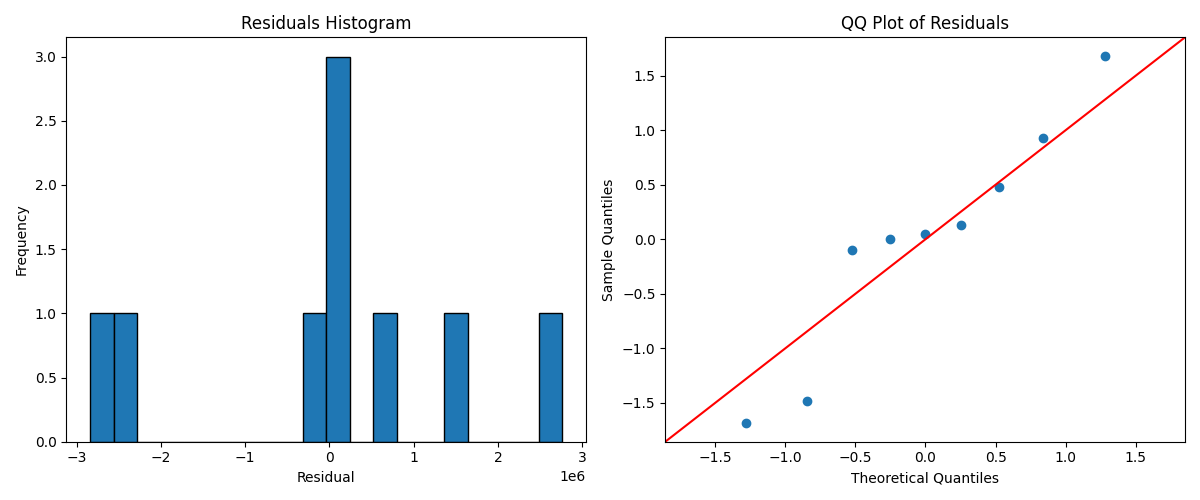
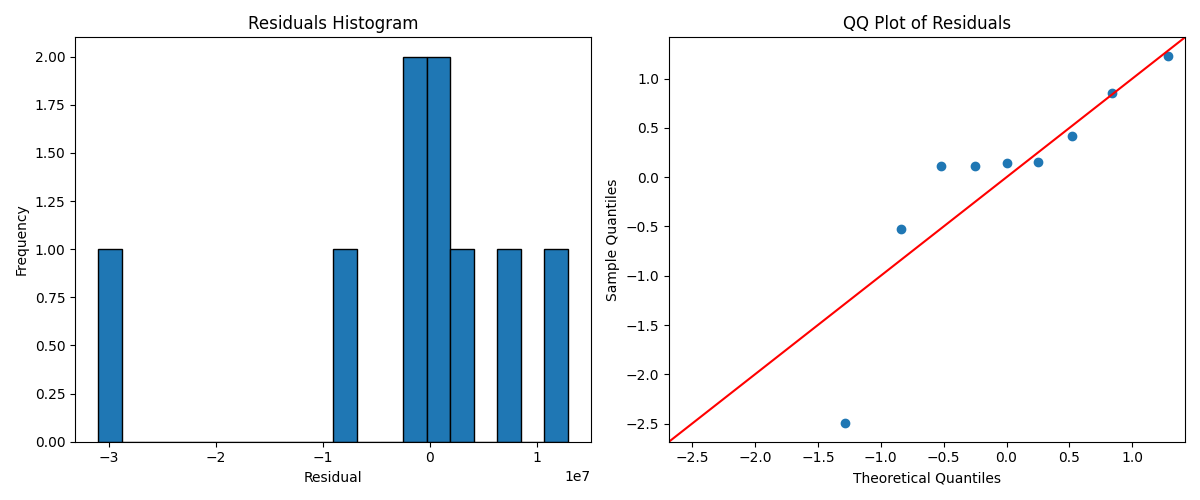
add logger files to track for each company

diff --git a/groundwork/important_metrics_analyzer.py b/groundwork/important_metrics_analyzer.py
@@ -1,3 +1,4 @@
+import logging
 from sklearn.linear_model import LassoCV
 import pandas as pd
 import numpy as np
@@ -6,7 +7,7 @@ from sklearn.preprocessing import StandardScaler
 from statsmodels.stats.outliers_influence import variance_inflation_factor
 import matplotlib.pyplot as plt
 
-def select_features(X: pd.DataFrame, y: pd.Series, cv: int = 5, random_state: int = 0) -> list:
+def select_features(X: pd.DataFrame, y: pd.Series, cv: int = 5, random_state: int = 0, logger:logging.Logger = None) -> list:
     """
     Use LassoCV to select features. Returns a list of predictors with non-zero coefficients.
     
@@ -22,53 +23,87 @@ def select_features(X: pd.DataFrame, y: pd.Series, cv: int = 5, random_state: in
     lasso = LassoCV(cv=cv, random_state=random_state).fit(X, y)
     coef = lasso.coef_
     selected_features = X.columns[coef != 0].tolist()
-    print("LASSO selected features:", selected_features)
+    logger.info(f"LASSO selected features: {selected_features}")
     return selected_features
 
-def fit_mle_model(df: pd.DataFrame, response: str, predictors: list):
+
+def fit_mle_model(df: pd.DataFrame, response: str, predictors: list, logger=None):
     """
     Fit a GLM model using Maximum Likelihood Estimation.
-    
+
     Parameters:
       df         : Cleaned DataFrame containing both the response and predictor variables.
       response   : The dependent variable (e.g., 'Emissions'). Must be strictly positive.
       predictors : List of predictor column names.
-      
+      logger     : Optional logger object for logging messages.
+
     Returns:
-      results    : The fitted GLM model results.
-      predictors : The list of predictor names used.
-      scaler     : The StandardScaler fitted to the predictors.
+      results         : The fitted GLM model results.
+      final_features  : The final list of predictor names used.
+      scaler          : The StandardScaler fitted to the predictors.
     """
+
+    # If no logger is provided, use a module-level logger.
+    if logger is None:
+        import logging
+        logger = logging.getLogger(__name__)
+
     # Replace infinite values with NaN and drop rows with missing data.
     model_df = df[[response] + predictors].replace([np.inf, -np.inf], np.nan).dropna()
-    
+
     # Ensure the response is strictly positive.
     model_df = model_df[model_df[response] > 0]
     if model_df.empty:
         raise ValueError("No valid data left for modeling after filtering out non-positive or missing values.")
-        
-    print(f"Modeling on {len(model_df)} rows after filtering missing, infinite, and non-positive responses.")
-    
+
+    logger.info("Modeling on %d rows after filtering missing, infinite, and non-positive responses.", len(model_df))
+
     # Standardize predictors.
     scaler = StandardScaler()
     X_scaled = scaler.fit_transform(model_df[predictors])
+    # Create a DataFrame with standardized predictors.
     X = pd.DataFrame(X_scaled, columns=predictors, index=model_df.index)
+    # Add constant for GLM.
     X = sm.add_constant(X)
     y = model_df[response]
-    
+
     # Optionally perform automated feature selection with LASSO.
-    selected = select_features(X.drop("const", axis=1), y)
-    # Add the constant back.
-    X_selected = sm.add_constant(X[selected])
-    
+    selected = select_features(X.drop("const", axis=1), y, logger=logger)
+
+    # Now, remove predictors with high VIF.
+    # Start with the predictors selected by LASSO.
+    final_features = selected.copy()
+    vif_threshold = 10
+    while True:
+        # Construct design matrix with constant for the current features.
+        X_current = sm.add_constant(X[final_features])
+        # Calculate VIF for each predictor (excluding the constant).
+        vif_data = pd.DataFrame({
+            'Variable': X_current.columns,
+            'VIF': [variance_inflation_factor(X_current.values, i) for i in range(X_current.shape[1])]
+        })
+        vif_data = vif_data[vif_data["Variable"] != "const"]
+        max_vif = vif_data["VIF"].max()
+        if max_vif < vif_threshold:
+            break
+        else:
+            # Identify the predictor with the highest VIF.
+            worst_predictor = vif_data.loc[vif_data["VIF"].idxmax(), "Variable"]
+            logger.info("Removing predictor '%s' due to high VIF: %.2f", worst_predictor, max_vif)
+            final_features.remove(worst_predictor)
+
+    logger.info("Final predictors after VIF filtering: %s", final_features)
+
+    # Construct final design matrix.
+    X_selected = sm.add_constant(X[final_features])
     # Fit a GLM with Gamma family and Log link.
     model = sm.GLM(y, X_selected, family=sm.families.Gamma(link=sm.families.links.Log()))
     results = model.fit()
-    
-    print("Model fitted. Summary:")
-    print(results.summary())
-    
-    return results, selected, scaler
+
+    logger.info("Model fitted. Summary:\n%s", results.summary())
+
+    return results, final_features, scaler
+
 
 def calculate_vif(df: pd.DataFrame, predictors: list):
     """
@@ -83,7 +118,7 @@ def calculate_vif(df: pd.DataFrame, predictors: list):
     })
     return vif_data
 
-def extract_importance_weights(results, predictors: list):
+def extract_importance_weights(results, predictors: list, logger:logging.Logger = None ):
     """
     Convert standardized coefficients (excluding the intercept) to weights out of 100.
     
@@ -98,12 +133,12 @@ def extract_importance_weights(results, predictors: list):
     weights = (importance / total) * 100
     weight_dict = dict(zip(predictors, weights))
     
-    print("\nVariable Importance Weights (out of 100):")
+    logger.info("\nVariable Importance Weights (out of 100):")
     for var, weight in weight_dict.items():
-        print(f"  {var}: {weight:.2f}")
+        logger.info(f"  {var}: {weight:.2f}")
     return weight_dict
 
-def check_residuals(results, save_path=None):
+def check_residuals(results, save_path=None, logger:logging.Logger = None):
     """
     Plot residual diagnostics to check model assumptions.
     Generates:
@@ -111,6 +146,7 @@ def check_residuals(results, save_path=None):
       - QQ plot for normality of residuals.
       
     Parameters:
+      logger:
       results: The fitted GLM results.
       save_path: Optional; if provided, the figure will be saved to this path.
     """
@@ -132,7 +168,7 @@ def check_residuals(results, save_path=None):
     plt.tight_layout()
     if save_path:
         plt.savefig(save_path)
-        print(f"Figure saved to {save_path}")
+        logger.info(f"Figure saved to {save_path}")
 
 # Example usage for testing the modeling functions:
 if __name__ == "__main__":

diff --git a/main.py b/main.py
@@ -1,4 +1,3 @@
-# main.py
 import os
 from groundwork.data_import import load_all_csvs
 from groundwork.data_cleaning import (
@@ -12,17 +11,17 @@ from groundwork.important_metrics_analyzer import (
     extract_importance_weights,
     check_residuals
 )
-from utils.results_saver import save_model_results  # <-- Import our new module
-from collections import Counter
+from utils.results_saver import save_model_results, setup_company_logger  # Updated import
 
 def main():
+    # Top-level logging for overall progress can go to the console.
     print("\n========== LOADING CSV FILES ==========")
     data_frames = load_all_csvs()
 
     print("\n========== LOADED DATAFRAMES ==========")
     for key in data_frames:
         print(f"✔ Loaded: {key} ({len(data_frames[key])} rows)")
-   
+
     print("\n========== CLEANING & PIVOTING DATAFRAMES ==========")
     cleaned_data_long = {}
     for key, df in data_frames.items():
@@ -39,55 +38,58 @@ def main():
 
     companies = combined_long["Company"].unique()
     print("\nFound companies:", companies)
-    
+
     for comp in companies:
-        print(f"\n========== PROCESSING COMPANY: {comp} ==========")
+        # Set up a logger for this company.
+        logger = setup_company_logger(comp)
+        logger.info("========== PROCESSING COMPANY: %s ==========", comp)
+
         comp_data = combined_long[combined_long["Company"] == comp]
         df_wide = pivot_combined_data(comp_data, index_cols=["Company", "Year"])
-        print(f"Wide-format data for {comp} has {df_wide.shape[0]} rows and {df_wide.shape[1]} columns.")
+        logger.info("Wide-format data for %s has %d rows and %d columns.", comp, df_wide.shape[0], df_wide.shape[1])
 
-        aspect_counts = Counter([col.split('_')[0] for col in df_wide.columns if col not in ["Company", "Year"]])
-        print("Metric counts by aspect:")
-        for aspect, count in aspect_counts.items():
-            print(f"  {aspect}: {count} metrics")
-        print()
-        
+        # List and log available columns (excluding 'Company' and 'Year').
+        columns = [col for col in df_wide.columns if col not in ["Company", "Year"]]
+        logger.info("Columns for company %s: %s", comp, columns)
+
         df_wide.interpolate(method='linear', limit_direction='both', inplace=True)
 
         response_variable = f"{comp}_SASB_Metrics_GHG Emissions"  # Adjust if needed.
         if response_variable not in df_wide.columns:
-            print(f"❌ Response variable '{response_variable}' not found for {comp}. Skipping modeling.")
+            logger.error("❌ Response variable '%s' not found for %s. Skipping modeling.", response_variable, comp)
             continue
 
         predictor_vars = [col for col in df_wide.columns if col not in ["Company", "Year", response_variable]]
         missing_cols = [col for col in [response_variable] + predictor_vars if col not in df_wide.columns]
         if missing_cols:
-            print(f"❌ Missing columns for modeling for {comp}: {missing_cols}")
+            logger.error("❌ Missing columns for modeling for %s: %s", comp, missing_cols)
             continue
 
-        print("\n========== MODELING (IMPORTANT METRICS ANALYZER) ==========")
-        results, selected_predictors, scaler = fit_mle_model(df_wide, response_variable, predictor_vars)
-        
+        logger.info("========== MODELING (IMPORTANT METRICS ANALYZER) ==========")
+        results, selected_predictors, scaler = fit_mle_model(df_wide, response_variable, predictor_vars, logger=logger)
+
         vif_df = calculate_vif(df_wide, selected_predictors)
-        print("\nVIF for Selected Predictors:")
-        print(vif_df)
-        
-        weight_dict = extract_importance_weights(results, selected_predictors)
-        
+        logger.info("VIF for Selected Predictors:\n%s", vif_df)
+
+        weight_dict = extract_importance_weights(results, selected_predictors, logger=logger)
+
         fig_folder = os.path.join("fig", comp)
         os.makedirs(fig_folder, exist_ok=True)
         resid_fig_path = os.path.join(fig_folder, f"{comp}_residual_plot.png")
-        
+
         results_folder = os.path.join("results", comp)
         os.makedirs(results_folder, exist_ok=True)
-        results_file = os.path.join(results_folder, f"{comp}_model_results.json")  # Using .json extension
-        
-        check_residuals(results, save_path=resid_fig_path)
-        
+        results_file = os.path.join(results_folder, f"{comp}_model_results.json")
+
+        check_residuals(results, save_path=resid_fig_path, logger=logger)
+
         # Save the model results using our structured JSON format.
-        save_model_results(results, selected_predictors, weight_dict, vif_df, results_file)
-   
+        save_model_results(results, selected_predictors, weight_dict, vif_df, results_file, logger=logger)
+        logger.info("Model results saved to: %s", results_file)
+        logger.info("Residual plot saved to: %s", resid_fig_path)
+
     print("\n========== DONE ==========")
+
 
 if __name__ == "__main__":
     main()

diff --git a/utils/results_saver.py b/utils/results_saver.py
@@ -1,10 +1,13 @@
 import json
+import logging
+import os
 
-def save_model_results(results, selected_predictors, weight_dict, vif_df, save_path):
+def save_model_results(results, selected_predictors, weight_dict, vif_df, save_path, logger:logging.Logger = None):
     """
-    Save model outputs to a JSON file.
+    Save initial important model variables outputs to a JSON file.
 
     Parameters:
+      logger:
       results            : The fitted model results (from statsmodels).
       selected_predictors: List of predictors used in the final model.
       weight_dict        : Dictionary mapping predictors to importance weights.
@@ -25,4 +28,50 @@ def save_model_results(results, selected_predictors, weight_dict, vif_df, save_p
     with open(save_path, "w") as f:
         json.dump(output, f, indent=4)
     
-    print(f"Model results saved in structured format to: {save_path}")
+    logger.info(f"Model results saved in structured format to: {save_path}")
+
+def setup_company_logger(company, results_dir="results"):
+    """
+    Set up a logger for a specific company.
+
+    This logger writes log messages to both the console and a file named
+    '{company}_logs.txt' in the company's results directory.
+
+    Parameters:
+      company      : The company identifier (string).
+      results_dir  : The base directory where results are stored.
+
+    Returns:
+      A configured logger instance.
+    """
+    # Create the company results directory if it does not exist.
+    company_dir = os.path.join(results_dir, company)
+    os.makedirs(company_dir, exist_ok=True)
+    log_file = os.path.join(company_dir, f"{company}_logs.txt")
+
+    # Create a logger object with the company name.
+    logger = logging.getLogger(company)
+    logger.setLevel(logging.INFO)
+
+    # Remove any existing handlers to avoid duplication.
+    if logger.hasHandlers():
+        logger.handlers.clear()
+
+    # Create a file handler to write to the log file.
+    file_handler = logging.FileHandler(log_file, mode='w')
+    file_handler.setLevel(logging.INFO)
+
+    # Create a console handler.
+    console_handler = logging.StreamHandler()
+    console_handler.setLevel(logging.INFO)
+
+    # Define a common formatter.
+    formatter = logging.Formatter('%(asctime)s - %(levelname)s - %(message)s')
+    file_handler.setFormatter(formatter)
+    console_handler.setFormatter(formatter)
+
+    # Add both handlers to the logger.
+    logger.addHandler(file_handler)
+    logger.addHandler(console_handler)
+
+    return logger
